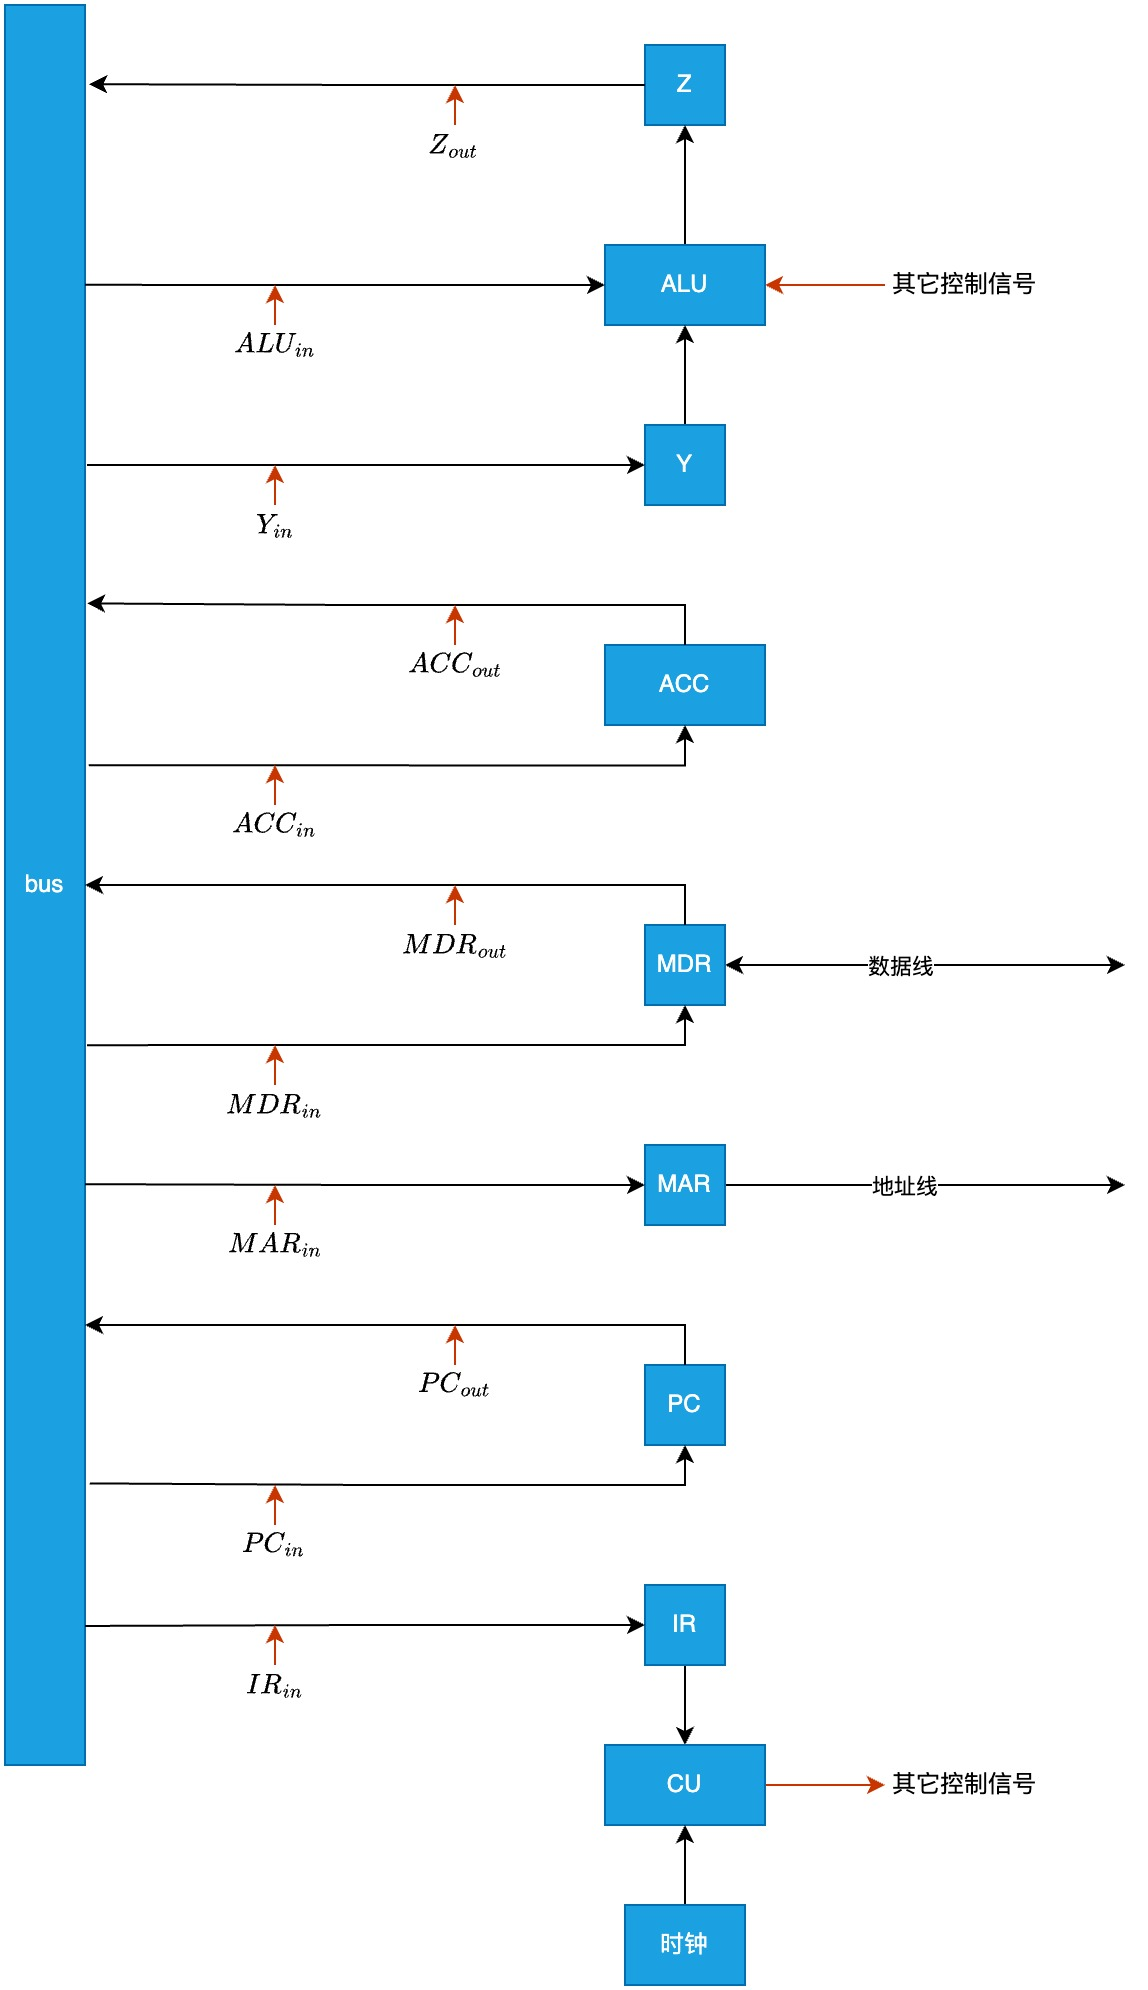
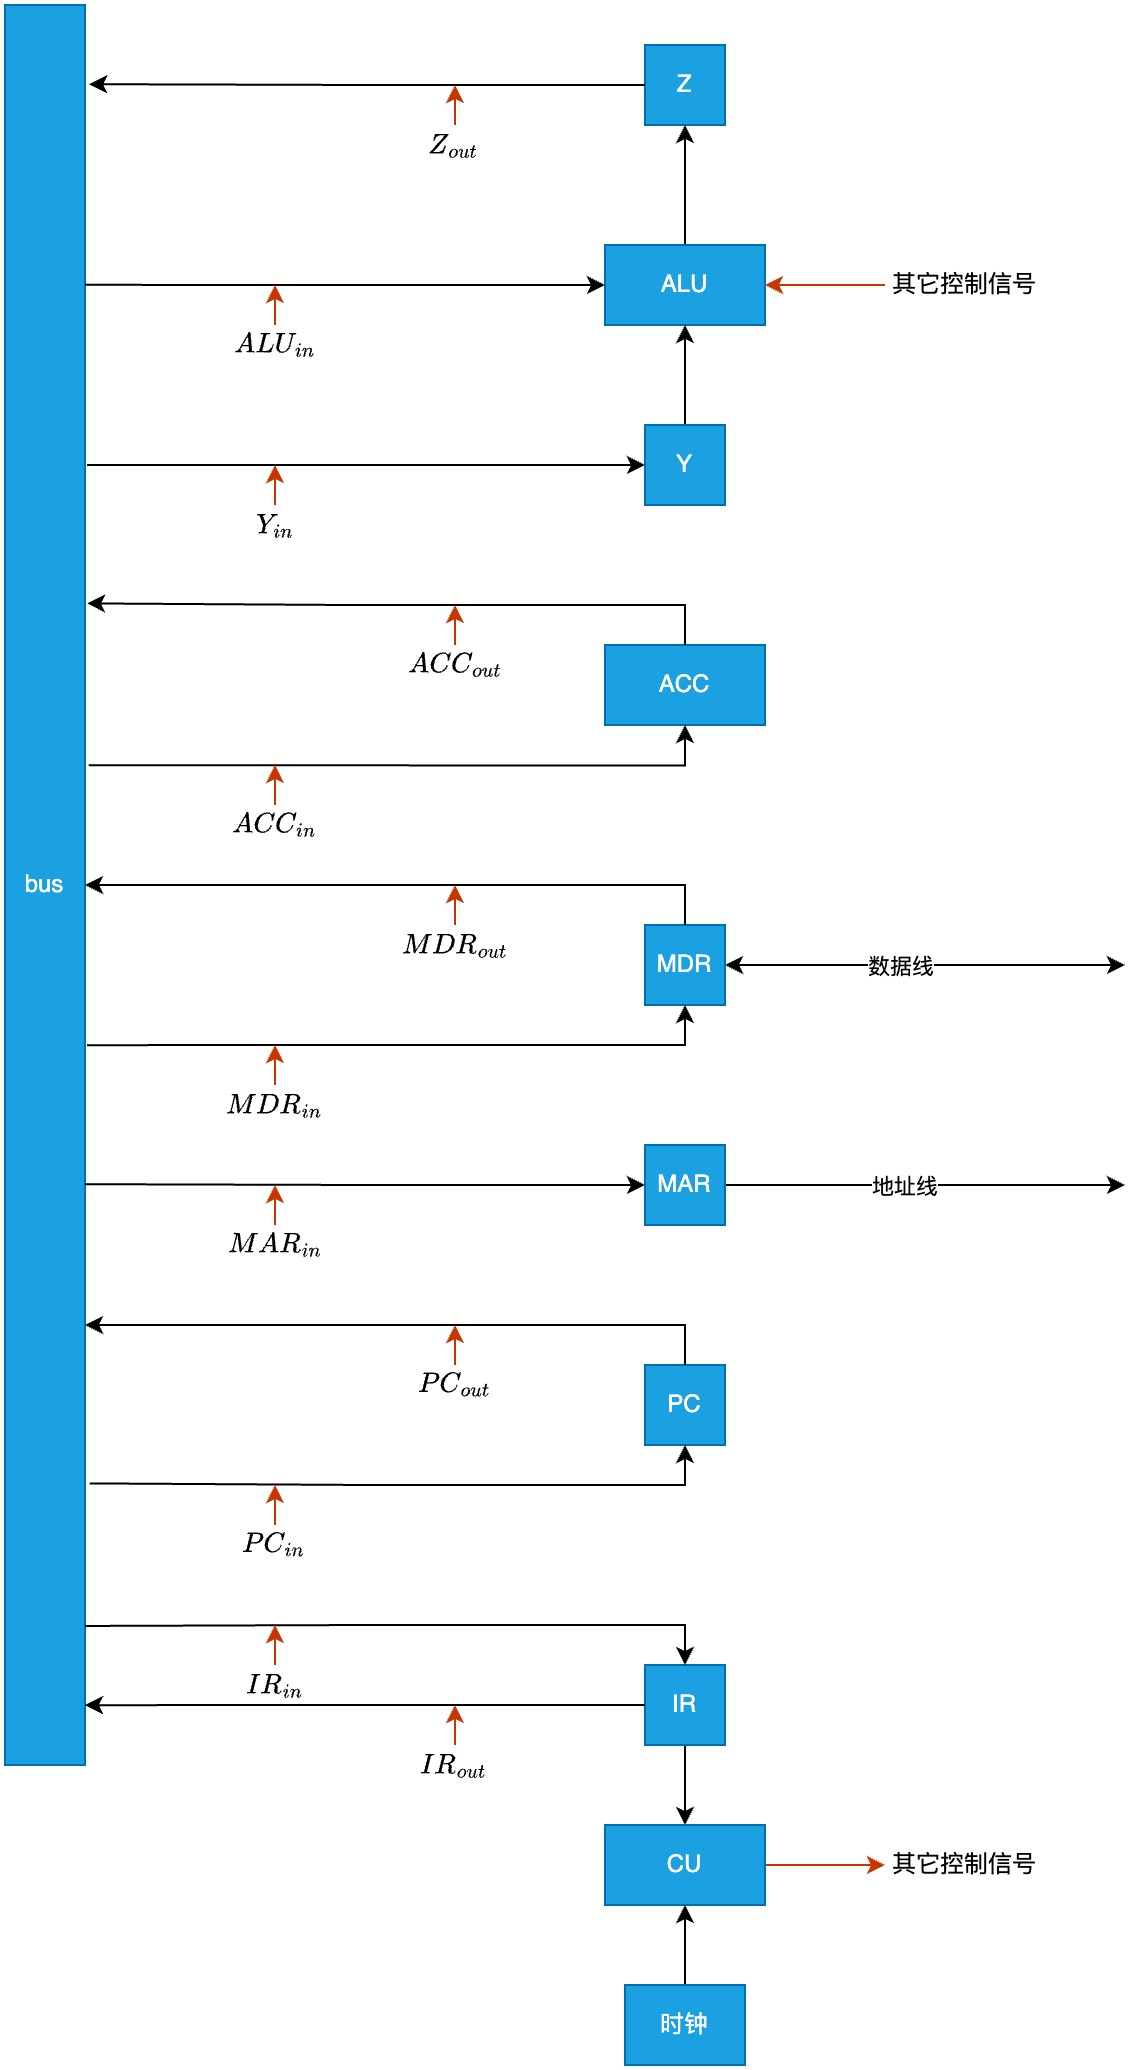
1

diff --git a/programming/Java/md/gc/src/jdk21/g1/gc/ygc/pre_evacuate_collection_set.md b/programming/Java/md/gc/src/jdk21/g1/gc/ygc/pre_evacuate_collection_set.md
@@ -1,6 +1,6 @@
 # 预备疏散回收集阶段
 
-预备疏散回收集阶段(Pre Evacuate Collection Set)执行一些垃圾回收的准备工作: 断开 mutator 线程与 TLAB 的连接，选择本次垃圾回收的回收集（在后文"调整堆大小"中说明），以及其他一些小的准备工作。
+预备疏散回收集阶段(Pre Evacuate Collection Set)执行一些垃圾回收的准备工作: 断开 mutator 线程与 TLAB 的连接，选择本次垃圾回收的回收集，以及其他一些小的准备工作。
 
 ```cpp
 // --- src/hotspot/share/gc/g1/g1YoungCollector.cpp --- //
@@ -8,25 +8,25 @@
 void G1YoungCollector::pre_evacuate_collection_set(G1EvacInfo *evacuation_info) {
     {
         Ticks start = Ticks::now();
-        // TODO
+        // 断开 mutator 线程与 TLAB 的连接
         G1PreEvacuateCollectionSetBatchTask cl;
         G1CollectedHeap::heap()->run_batch_task(&cl);
         phase_times()->record_pre_evacuate_prepare_time_ms((Ticks::now() - start).seconds() * 1000.0);
     }
 
-    // Needs log buffers flushed.
-    // 选择回收集
+    // 计算回收集
     calculate_collection_set(evacuation_info, policy()->max_pause_time_ms());
 
-    // Please see comment in g1CollectedHeap.hpp and
-    // G1CollectedHeap::ref_processing_init() to see how
-    // reference processing currently works in G1.
+    // 处理引用类型
     ref_processor_stw()->start_discovery(false /* always_clear */);
 
+    // 初始化疏散失败的分区数
     _evac_failure_regions.pre_collection(_g1h->max_reserved_regions());
 
+    // 记录发生的GC次数
     _g1h->gc_prologue(false);
 
+// TODO
     // Initialize the GC alloc regions.
     // 初始化垃圾回收器分配的分区
     allocator()->init_gc_alloc_regions(evacuation_info);
@@ -62,6 +62,43 @@ void G1YoungCollector::pre_evacuate_collection_set(G1EvacInfo *evacuation_info) 
 
     evac_failure_injector()->arm_if_needed();
 }
+```
+
+## 断开 mutator 线程与 TLAB 的连接
+
+```cpp
+// run_batch_task 最终会执行到这里
+// 调用栈:
+// G1PreEvacuateCollectionSetBatchTask::JavaThreadRetireTLABAndFlushLogs::RetireTLABAndFlushLogsClosure::do_thread(Thread *) g1YoungGCPreEvacuateTasks.cpp:60
+// G1JavaThreadsListClaimer::apply(ThreadClosure *) g1CollectedHeap.inline.hpp:72
+// G1PreEvacuateCollectionSetBatchTask::JavaThreadRetireTLABAndFlushLogs::do_work(unsigned int) g1YoungGCPreEvacuateTasks.cpp:88
+// G1BatchedTask::work(unsigned int) g1BatchedTask.cpp:95
+// WorkerTaskDispatcher::worker_run_task() workerThread.cpp:74
+// WorkerThread::run() workerThread.cpp:210
+// Thread::call_run() thread.cpp:217
+// thread_native_entry(Thread *) os_bsd.cpp:580
+
+// --- src/hotspot/share/gc/g1/g1YoungGCPreEvacuateTasks.cpp --- //
+
+struct RetireTLABAndFlushLogsClosure : public ThreadClosure {
+    void do_thread(Thread *thread) override {
+        assert(thread->is_Java_thread(), "must be");
+        BarrierSet::barrier_set()->make_parsable((JavaThread *) thread);
+        if (UseTLAB) {
+            // 退休当前mutator线程的TLAB
+            thread->tlab().retire(&_tlab_stats);
+        }
+
+        G1DirtyCardQueueSet &qset = G1BarrierSet::dirty_card_queue_set();
+        _refinement_stats += qset.concatenate_log_and_stats(thread);
+    }
+};
+```
+
+## 计算回收集
+
+```cpp
+// --- src/hotspot/share/gc/g1/g1YoungCollector.cpp --- //
 
 void G1YoungCollector::calculate_collection_set(G1EvacInfo *evacuation_info, double target_pause_time_ms) {
     // 释放mutator分配的分区
@@ -94,7 +131,7 @@ void G1Allocator::release_mutator_alloc_regions() {
     // 遍历_mutator_alloc_regions数组
     // _mutator_alloc_regions的长度是NUMA节点的数量
     // 每一个元素对应一个NUMA内存节点
-    // _mutator_alloc_regions的每个元素内部的_alloc_region指向mutator分配的分区
+    // _mutator_alloc_regions的每个元素内部的_alloc_region指向当前正在用来分配内存的分区
     for (uint i = 0; i < _num_alloc_regions; i++) {
         // 把分区退休, 并加入回收集
         mutator_alloc_region(i)->release();
@@ -121,7 +158,7 @@ HeapRegion *MutatorAllocRegion::release() {
 
 HeapRegion *G1AllocRegion::release() {
     trace("releasing");
-    // _alloc_region指向当前正在分配内存的分区
+    // _alloc_region指向当前正在用于分配内存的分区
     HeapRegion *alloc_region = _alloc_region;
     // 把_alloc_region分区退休, 并加入到回收集
     // 分区的剩余空间不填充dummy对象
@@ -143,8 +180,8 @@ HeapRegion *G1AllocRegion::release() {
 void G1CollectionSet::finalize_initial_collection_set(double target_pause_time_ms, G1SurvivorRegions *survivor) {
     // 预测新生代分区回收耗时, 返回GC的剩余可用时间
     double time_remaining_ms = finalize_young_part(target_pause_time_ms, survivor);
-    // 如果是 Young GC 则跳过, 因为Young GC 阶段不会选择老年代分区
     // 根据剩余可用时间选择一部分老年代分区加入回收集
+    // (如果是 Young GC 则跳过, 因为Young GC 阶段不会选择老年代分区)
     finalize_old_part(time_remaining_ms);
 }
 
@@ -173,10 +210,10 @@ double G1CollectionSet::finalize_young_part(double target_pause_time_ms, G1Survi
 
     // 根据pending_cards预测执行GC要耗费的基础时间
     double predicted_base_time_ms = _policy->predict_base_time_ms(pending_cards);
-    // 根据eden分区数预测eden区域执行GC要耗费时间
+    // 根据eden分区数预测eden区执行GC要耗费的时间
     double predicted_eden_time = _policy->predict_young_region_other_time_ms(eden_region_length) +
                                  _policy->predict_eden_copy_time_ms(eden_region_length);
-    // 根据用户指定的期望暂停时间计算剩余可用的时间
+    // 根据用户指定的暂停时间目标计算剩余可用的时间
     double remaining_time_ms = MAX2(target_pause_time_ms - (predicted_base_time_ms + predicted_eden_time), 0.0);
 
     log_trace(gc, ergo, cset)("Added young regions to CSet. Eden: %u regions, Survivors: %u regions, "

diff --git a/programming/Java/md/gc/src/jdk21/g1/gc/ygc/collect.md b/programming/Java/md/gc/src/jdk21/g1/gc/ygc/collect.md
@@ -2,7 +2,7 @@
 
 一次垃圾回收由四个阶段组成:
 
-- 预备疏散回收集阶段(Pre Evacuate Collection Set)执行一些垃圾回收的准备工作: 断开 mutator 线程与 TLAB 的连接，选择本次垃圾回收的回收集（在后文"调整堆大小"中说明），以及其他一些小的准备工作
+- 预备疏散回收集阶段(Pre Evacuate Collection Set)执行一些垃圾回收的准备工作: 断开 mutator 线程与 TLAB 的连接，选择本次垃圾回收的回收集，以及其他一些小的准备工作
 - 合并堆根阶段(Merge Heap Roots)，G1 从回收集分区中创建一个统一的记忆集，以便后续进行并行处理。这一步骤从记忆集中去除了许多原本需要在后续以更高代价过滤掉的重复项
 - 疏散回收集阶段(Evacuate Collection Set)包含了大部分的工作: G1 从根开始移动对象。根的引用是指从回收集外部指向回收集内的引用，这些引用可能来自某些虚拟机内部的数据结构（外部根）、代码（代码根）或 Java 堆的其余部分（堆根）。对于所有根，G1 将它所引用的回收集中的对象复制到其目标位置，并将这些对象的引用作为新的根进行处理，直到没有更多的根为止。这些阶段各自的时间可以通过使用 `-Xlog:gc+phases=debug` 日志记录选项来观察，分别在扩展根扫描（Ext Root Scanning）、代码根扫描（Code Root Scan）、堆根扫描（Scan Heap Roots）和对象复制（Object Copy）子阶段中查看。G1 可能会根据需要重复主要疏散阶段，以处理可选的回收集
 - 疏散回收集后阶段(Post Evacuate Collection Set)包括清理工作，如引用处理和为接下来的 mutator 阶段做准备

diff --git a/base/math/src/further_mathematics/differential_equation3.md b/base/math/src/further_mathematics/differential_equation3.md
@@ -110,5 +110,26 @@ y'' + p(x)y' + q(x)y = f_2(x) \\
 \begin{align}
 & 求微分方程 y'' - y' - 2y = (2x - 1)e^x 的特解与通解 \\
 \\
+& 特征方程为 \lambda ^2 - \lambda -2 = 0 \\
+& 因式分解: (x - 2)(x + 1) = 0 \\
+& 所以: \lambda _1 = 2, \lambda _2 = -1 \\
+& 方程 y'' - y' - 2y = 0 的通解为: y = C_1 e^{2 x} + C_2 e^{- x} \\
+\\
+& {\color{Green} // 特解类型1 多项式乘指数函数: f(x) = P(x)e^{kx}} \\
+& {\color{Green} // 因为题目方程的等号右边正好是多项式乘指数函数的形式} \\
+& {\color{Green} // 所以按照等号右边的形式去假设特解} \\
+& {\color{Green} // 多项式换成ax + b, 指数函数不变} \\
+& 令 y_0(x) = (ax + b)e^x \\
+& 令 y_0 '(x) = (ax + a + b)e^x, y_0 ''(x) = (ax + 2a + b)e^x \\
+& 代入方程 y'' - y' - 2y = (2x - 1)e^x \\
+& (ax + 2a + b)e^x - (ax + a + b)e^x - 2(ax + b)e^x = (2x - 1)e^x \\
+& ax + 2a + b - ax - a - b - 2ax - 2b = 2x - 1 \\
+& 2a + b - a - b - 2ax - 2b = 2x - 1 \\
+& {\color{Green} // - 2ax = 2x, 所以 a = -1} \\
+& {\color{Green} // 代入a, 得出 b = 0} \\
+& 所以 y_0(x) = - xe^x \\
+& 所以方程 y'' - y' - 2y = (2x - 1)e^x 的通解为 y = C_1 e^{2 x} + C_2 e^{- x} - xe^x \\
 \end{align}
 -->
+
+![](../img/de3_6.jpg)

diff --git a/programming/Java/md/mq/src/SUMMARY.md b/programming/Java/md/mq/src/SUMMARY.md
@@ -29,6 +29,7 @@
       - [同步发送消息](./kafka/kafka_clients/producer_send_s.md)
       - [异步发送消息回调](./kafka/kafka_clients/producer_send_cb.md)
       - [自定义partition选择器](./kafka/kafka_clients/producer_partitioner.md)
+    - [consumer操作](./kafka/kafka_clients/consumer.md)
   - [消息传递保障](./kafka/guarantee/guarantee.md)
     - [最多一次](./kafka/guarantee/at_most_once.md)
     - [至少一次](./kafka/guarantee/at_least_once.md)

diff --git a/base/computer_organization/src/cpu/cu.md b/base/computer_organization/src/cpu/cu.md
@@ -37,3 +37,14 @@
 6. PC 自增: (PC) + 1 -> PC
 
 间指周期:
+
+1. 将指令的地址码送入 MAR
+   - IR<sub>out</sub> 和 MAR<sub>in</sub> 有效
+   - Ad(IR) -> bus -> MAR
+2. 向主存发送读命令, 启动主存执行读操作: 1 -> R
+3. 把有效地址从主存送入 MDR
+   - MDR<sub>in</sub> 有效
+   - M(MAR) -> 数据总线 -> MDR
+4. 用有效地址覆盖 IR 中的地址码
+   - IR<sub>in</sub> 有效
+   - MDR -> bus -> Ad(IR)

diff --git a/programming/Java/md/mq/src/kafka/kafka_clients/consumer.md b/programming/Java/md/mq/src/kafka/kafka_clients/consumer.md
@@ -1,0 +1,1 @@
+# consumer 操作
